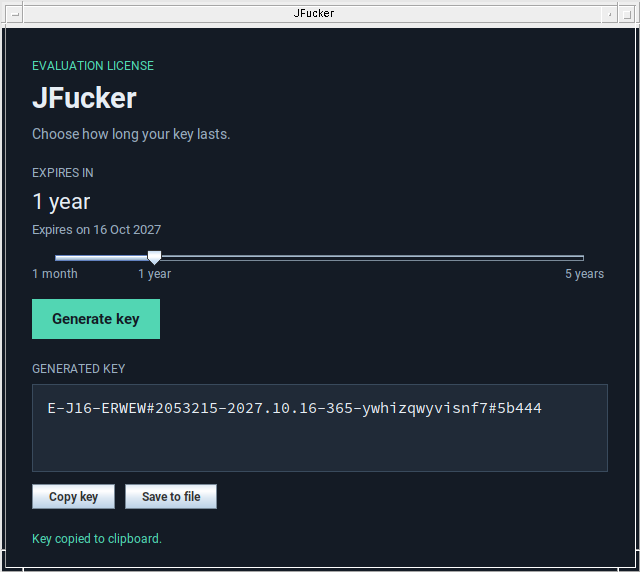
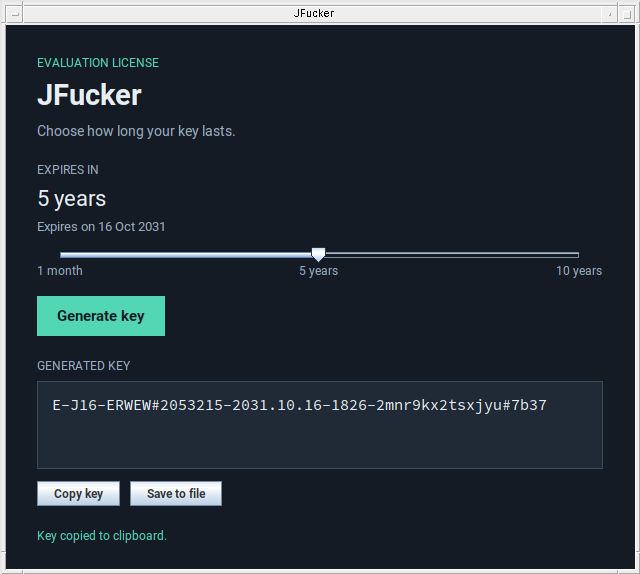
Set expiration slider default to five years and maximum to ten

Changed region(s): [[0.0, 0.0297, 1.0, 1.0]]

diff --git a/tests/KeyBuilderTest.java b/tests/KeyBuilderTest.java
@@ -31,11 +31,13 @@ public class KeyBuilderTest {
             SwingUtilities.invokeAndWait(() -> {
                 app[0] = new KeyBuilder();
                 app[0].frame.setVisible(true);
-                require(app[0].expiration.getValue() == 12, "Default duration is not one year");
-                require(app[0].selectedExpiry().equals(LocalDate.now().plusYears(1)), "Default expiry is not one year away");
-                require(app[0].duration.getText().equals("1 year"), "Default duration label is incorrect");
+                require(app[0].expiration.getMinimum() == 1, "Minimum duration is not one month");
+                require(app[0].expiration.getMaximum() == 120, "Maximum duration is not ten years");
+                require(app[0].expiration.getValue() == 60, "Default duration is not five years");
+                require(app[0].selectedExpiry().equals(LocalDate.now().plusYears(5)), "Default expiry is not five years away");
+                require(app[0].duration.getText().equals("5 years"), "Default duration label is incorrect");
                 require(!app[0].copy.isEnabled() && !app[0].save.isEnabled(), "Empty output actions enabled");
-                for (int months : new int[]{12, 1, 60, 13}) {
+                for (int months : new int[]{60, 1, 120, 13}) {
                     app[0].expiration.setValue(months);
                     require(app[0].output.getText().isEmpty(), "Slider change left a stale key");
                     require(!app[0].copy.isEnabled() && !app[0].save.isEnabled(), "Slider change left actions enabled");
@@ -49,7 +51,7 @@ public class KeyBuilderTest {
                     require(app[0].copy.isEnabled() && app[0].save.isEnabled(), "Output actions disabled");
                 }
                 require(app[0].duration.getText().equals("1 year, 1 month"), "Mixed duration label is incorrect");
-                app[0].expiration.setValue(12);
+                app[0].expiration.setValue(60);
                 app[0].generate.doClick();
                 app[0].copy.doClick();
                 require(app[0].status.getText().equals("Key copied to clipboard."), "Copy action failed");
@@ -63,7 +65,7 @@ public class KeyBuilderTest {
                 app[0].frame.dispose();
             });
             ImageIO.write(preview[0], "png", Path.of("preview.png").toFile());
-            System.out.println("GUI default year, slider bounds, expiry generation, stale-output clearing, clipboard, and preview rendering passed.");
+            System.out.println("GUI five-year default, slider bounds, expiry generation, stale-output clearing, clipboard, and preview rendering passed.");
         }
     }
 }

diff --git a/src/KeyBuilder.java b/src/KeyBuilder.java
@@ -21,7 +21,7 @@ public final class KeyBuilder {
     static final Color ACCENT = new Color(82, 214, 179);
     static final DateTimeFormatter KEY_DATE = DateTimeFormatter.ofPattern("uuuu.MM.dd");
     final JFrame frame = new JFrame("JFucker");
-    final JSlider expiration = new JSlider(1, 60, 12);
+    final JSlider expiration = new JSlider(1, 120, 60);
     final JLabel duration = label("", 22, TEXT);
     final JLabel expiryDate = label("", 13, MUTED);
     final JTextArea output = new JTextArea(3, 42);
@@ -116,8 +116,8 @@ public final class KeyBuilder {
         expiration.setPaintLabels(true);
         Hashtable<Integer, JLabel> marks = new Hashtable<>();
         marks.put(1, label("1 month", 12, MUTED));
-        marks.put(12, label("1 year", 12, MUTED));
         marks.put(60, label("5 years", 12, MUTED));
+        marks.put(120, label("10 years", 12, MUTED));
         expiration.setLabelTable(marks);
         expiration.getAccessibleContext().setAccessibleName("Time until expiration, in months");
         expiration.addChangeListener(event -> {

diff --git a/README.md b/README.md
@@ -31,9 +31,9 @@ The portable JAR is useful for the CLI or systems with Java already installed. W
 
 ## Desktop controls
 
-Move the **Expires in** slider to choose one month to five years, in monthly steps. It starts at **1 year** and shows the resulting expiration date. Select **Generate key**, then **Copy key** or **Save to file**. Changing the slider clears the previous result.
+Move the **Expires in** slider to choose one month to ten years, in monthly steps. It starts at **5 years** and shows the resulting expiration date. Select **Generate key**, then **Copy key** or **Save to file**. Changing the slider clears the previous result.
 
-The desktop app handles the remaining details automatically: version 16, issuer `ERWEW`, record ID `2053215`, and a days field matching the selected duration. The one-year default uses the same calendar date next year, accounting for leap years. Expiration takes effect near the beginning of the displayed date.
+The desktop app handles the remaining details automatically: version 16, issuer `ERWEW`, record ID `2053215`, and a days field matching the selected duration. The five-year default uses the same calendar date five years from today, accounting for leap years. Expiration takes effect near the beginning of the displayed date.
 
 The issuer and ID come from the supplied example; their vendor-side allocation semantics remain unknown. Advanced values remain available through the CLI, whose existing defaults are unchanged.
 
@@ -93,7 +93,7 @@ Validation performed on 2026-10-16:
 
 - Reproduced the user-supplied vendor key byte for byte.
 - Tested malformed dates, leap years, unsupported versions, invalid issuer/ID fields, and invalid days values.
-- Exercised the one-year GUI default, both slider endpoints, mixed year/month labels, generated expiry and days fields, clearing stale output, and clipboard copying.
+- Exercised the five-year GUI default, both slider endpoints, mixed year/month labels, generated expiry and days fields, clearing stale output, and clipboard copying.
 - Opened and closed the packaged Linux desktop executable successfully, with exit 0 and no stderr.
 - Tested the packaged CLI, including error messages and exit codes.
 - Generated a code expiring 2026-11-01 and passed it to the unmodified installed JProfiler Java validator in an isolated JVM. It returned `15` whole days remaining.
